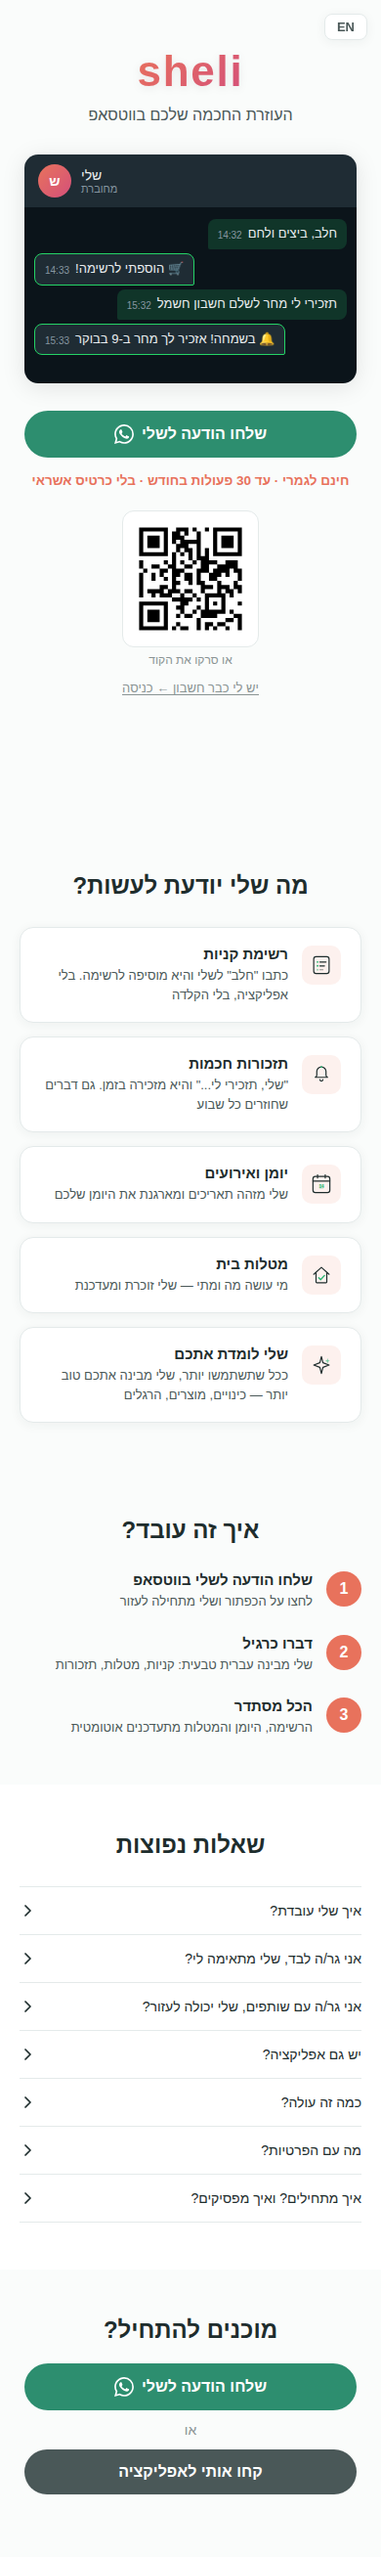
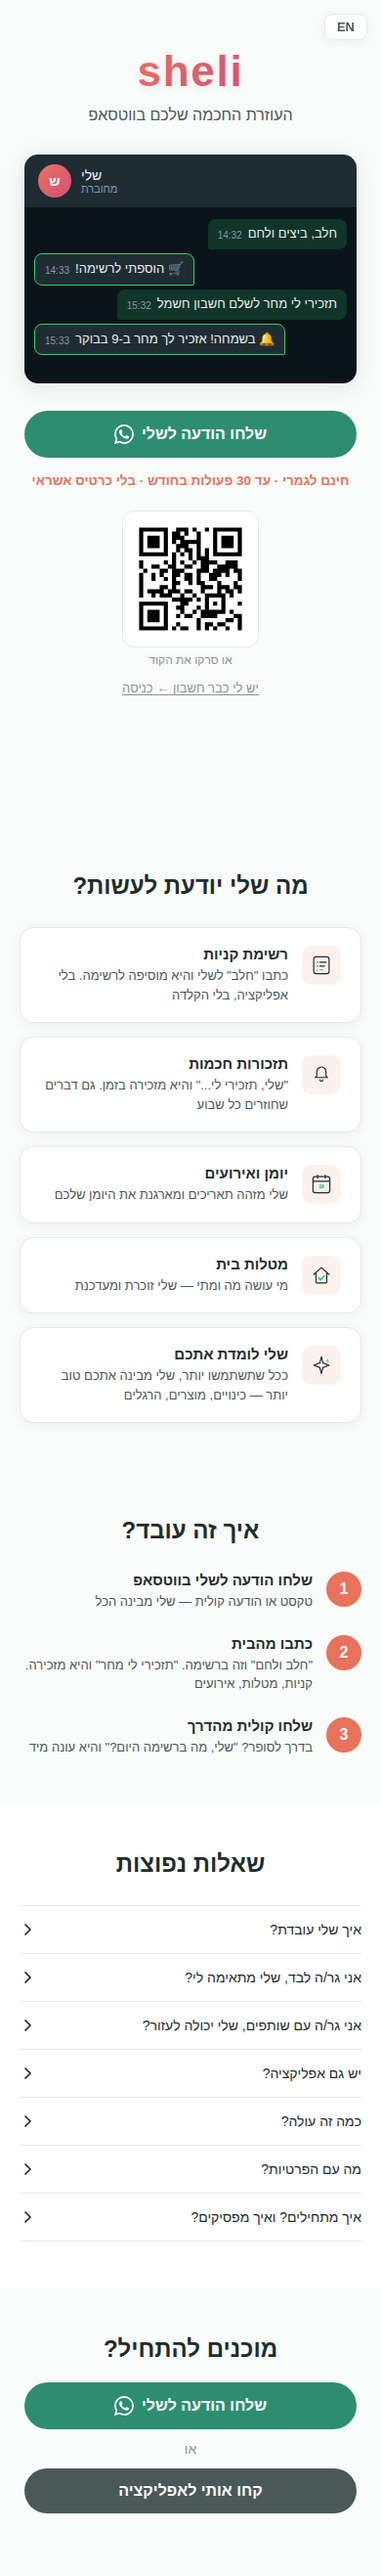
feat: rework "how it works" steps — text + voice story
Steps now tell a natural usage story:
1. Send Sheli a message (text or voice — she understands both)
2. Type from home (shopping, tasks, reminders)
3. Voice note on the go ("Sheli, what's on my list?" from the car)

Highlights the voice feature as a key differentiator.

https://claude.ai/code/session_01Q1JpJbQf1Zpp2Q6Tpo9kpg

diff --git a/src/components/LandingPage.jsx b/src/components/LandingPage.jsx
@@ -44,9 +44,9 @@ const CONTENT = {
     ],
     stepsTitle: "איך זה עובד?",
     steps: [
-      { title: "שלחו הודעה לשלי בווטסאפ", subtitle: "לחצו על הכפתור ושלי מתחילה לעזור" },
-      { title: "דברו כרגיל", subtitle: "שלי מבינה עברית טבעית: קניות, מטלות, תזכורות" },
-      { title: "הכל מסתדר", subtitle: "הרשימה, היומן והמטלות מתעדכנים אוטומטית" },
+      { title: "שלחו הודעה לשלי בווטסאפ", subtitle: "טקסט או הודעה קולית — שלי מבינה הכל" },
+      { title: "כתבו מהבית", subtitle: "\u0022חלב ולחם\u0022 וזה ברשימה. \u0022תזכירי לי מחר\u0022 והיא מזכירה. קניות, מטלות, אירועים" },
+      { title: "שלחו קולית מהדרך", subtitle: "בדרך לסופר? \u0022שלי, מה ברשימה היום?\u0022 והיא עונה מיד" },
     ],
     faqTitle: "שאלות נפוצות",
     faq: [
@@ -90,9 +90,9 @@ const CONTENT = {
     ],
     stepsTitle: "How does it work?",
     steps: [
-      { title: "Send Sheli a message on WhatsApp", subtitle: "Tap the button and Sheli starts helping" },
-      { title: "Just talk naturally", subtitle: "Sheli understands natural language: shopping, tasks, reminders" },
-      { title: "Everything stays organized", subtitle: "Lists, calendar and tasks update automatically" },
+      { title: "Send Sheli a message on WhatsApp", subtitle: "Text or voice message \u2014 Sheli understands both" },
+      { title: "Type from home", subtitle: "\u0022Milk and bread\u0022 and it's on the list. \u0022Remind me tomorrow\u0022 and she will. Shopping, tasks, events" },
+      { title: "Send a voice note on the go", subtitle: "Driving to the store? \u0022Sheli, what's on my list?\u0022 and she answers right away" },
     ],
     faqTitle: "FAQ",
     faq: [
